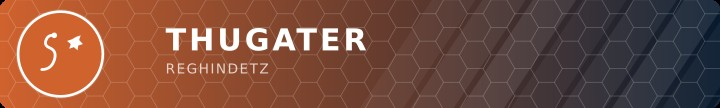
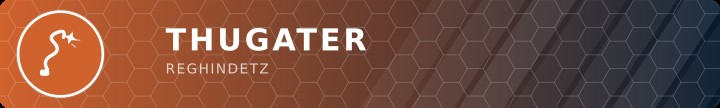
Give Thugater's whip a sharper, more dynamic crack
Give the icon a visible handle and a longer, more sinuous coil so it
reads as a whip being cracked rather than a short curl, with the
spiked barb and motion lines clearly visible instead of crowding the
circle's edge.

Claude-Session: https://claude.ai/code/session_01SkJssJm5ZUVviimjqwW7Su

Changed region(s): [[0.0306, 0.2778, 0.1222, 0.7222]]

diff --git a/index.html b/index.html
@@ -163,7 +163,7 @@ h2::before{content:"";width:20px;height:23px;flex:none;background:url("data:imag
 
     <details class="book-classes">
       <summary>Galopoula Expansion — 5 more classes</summary>
-      <div class="classes"><a href="files/Galopoula_Expansion.pdf?v=202611231834#page=5" title="Basilissa (Gatlin), Galopoula Expansion page 5"><img src="files/art/banner_gatlin.jpg?v=202611231829" alt="Basilissa (Gatlin) class banner" loading="lazy"></a><a href="files/Galopoula_Expansion.pdf?v=202611231834#page=6" title="Servitra (Wen Sō), Galopoula Expansion page 6"><img src="files/art/banner_wen_so.jpg?v=202611231829" alt="Servitra (Wen Sō) class banner" loading="lazy"></a><a href="files/Galopoula_Expansion.pdf?v=202611231834#page=7" title="Despinis (Ratarikov), Galopoula Expansion page 7"><img src="files/art/banner_ratarikov.jpg?v=202611231829" alt="Despinis (Ratarikov) class banner" loading="lazy"></a><a href="files/Galopoula_Expansion.pdf?v=202611231834#page=8" title="Thugater (Reghindetz), Galopoula Expansion page 8"><img src="files/art/banner_reghindetz.jpg?v=202611231825" alt="Thugater (Reghindetz) class banner" loading="lazy"></a><a href="files/Galopoula_Expansion.pdf?v=202611231834#page=9" title="Nikokyra (Koskero), Galopoula Expansion page 9"><img src="files/art/banner_koskero.jpg?v=202611231825" alt="Nikokyra (Koskero) class banner" loading="lazy"></a></div>
+      <div class="classes"><a href="files/Galopoula_Expansion.pdf?v=202611231834#page=5" title="Basilissa (Gatlin), Galopoula Expansion page 5"><img src="files/art/banner_gatlin.jpg?v=202611231829" alt="Basilissa (Gatlin) class banner" loading="lazy"></a><a href="files/Galopoula_Expansion.pdf?v=202611231834#page=6" title="Servitra (Wen Sō), Galopoula Expansion page 6"><img src="files/art/banner_wen_so.jpg?v=202611231829" alt="Servitra (Wen Sō) class banner" loading="lazy"></a><a href="files/Galopoula_Expansion.pdf?v=202611231834#page=7" title="Despinis (Ratarikov), Galopoula Expansion page 7"><img src="files/art/banner_ratarikov.jpg?v=202611231829" alt="Despinis (Ratarikov) class banner" loading="lazy"></a><a href="files/Galopoula_Expansion.pdf?v=202611231834#page=8" title="Thugater (Reghindetz), Galopoula Expansion page 8"><img src="files/art/banner_reghindetz.jpg?v=202611231835" alt="Thugater (Reghindetz) class banner" loading="lazy"></a><a href="files/Galopoula_Expansion.pdf?v=202611231834#page=9" title="Nikokyra (Koskero), Galopoula Expansion page 9"><img src="files/art/banner_koskero.jpg?v=202611231825" alt="Nikokyra (Koskero) class banner" loading="lazy"></a></div>
       <div class="plist">
         <a class="pl" href="files/Galopoula_Expansion.pdf?v=202611231834#page=5"><span>Basilissa (Gatlin)</span><b>p. 5</b></a>
         <a class="pl" href="files/Galopoula_Expansion.pdf?v=202611231834#page=6"><span>Servitra (Wen Sō)</span><b>p. 6</b></a>
